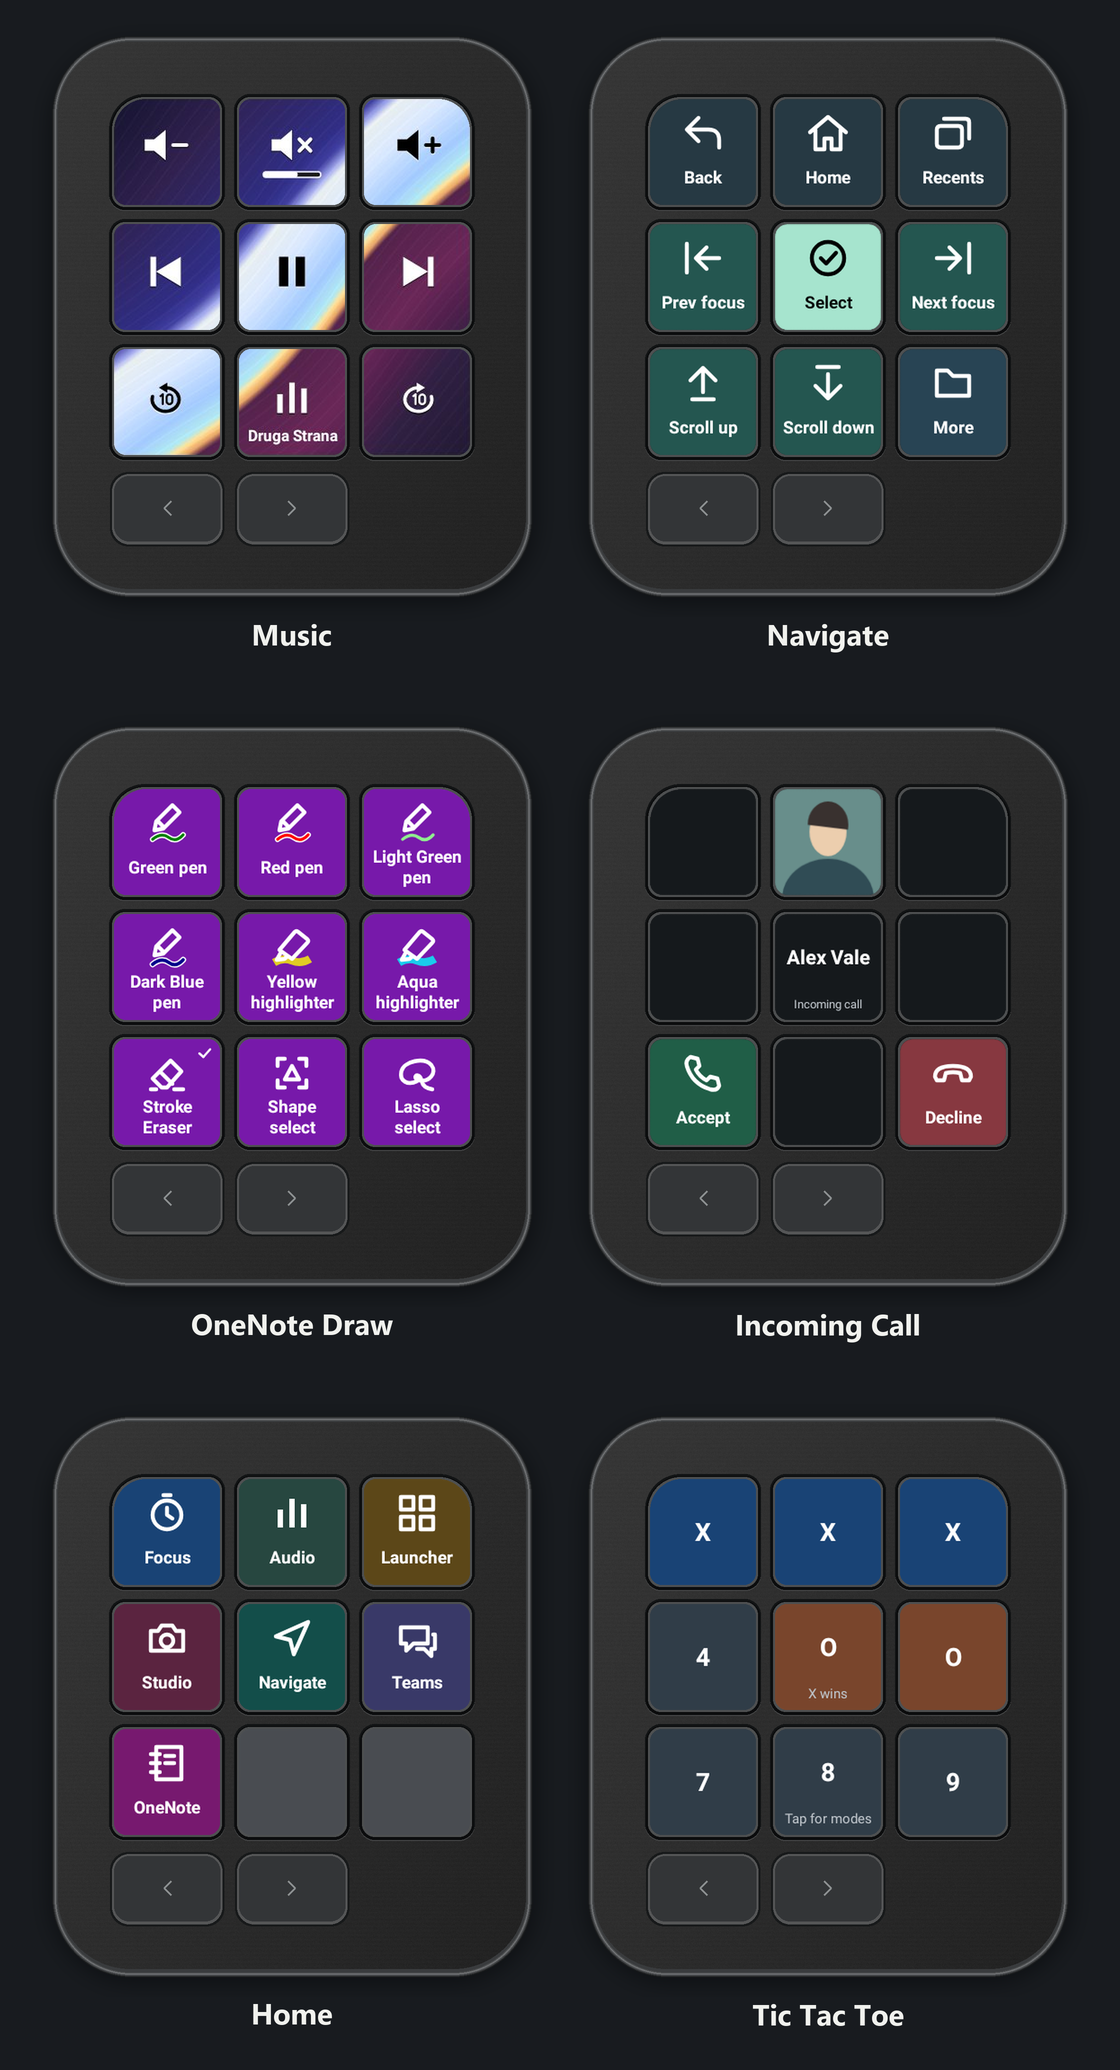
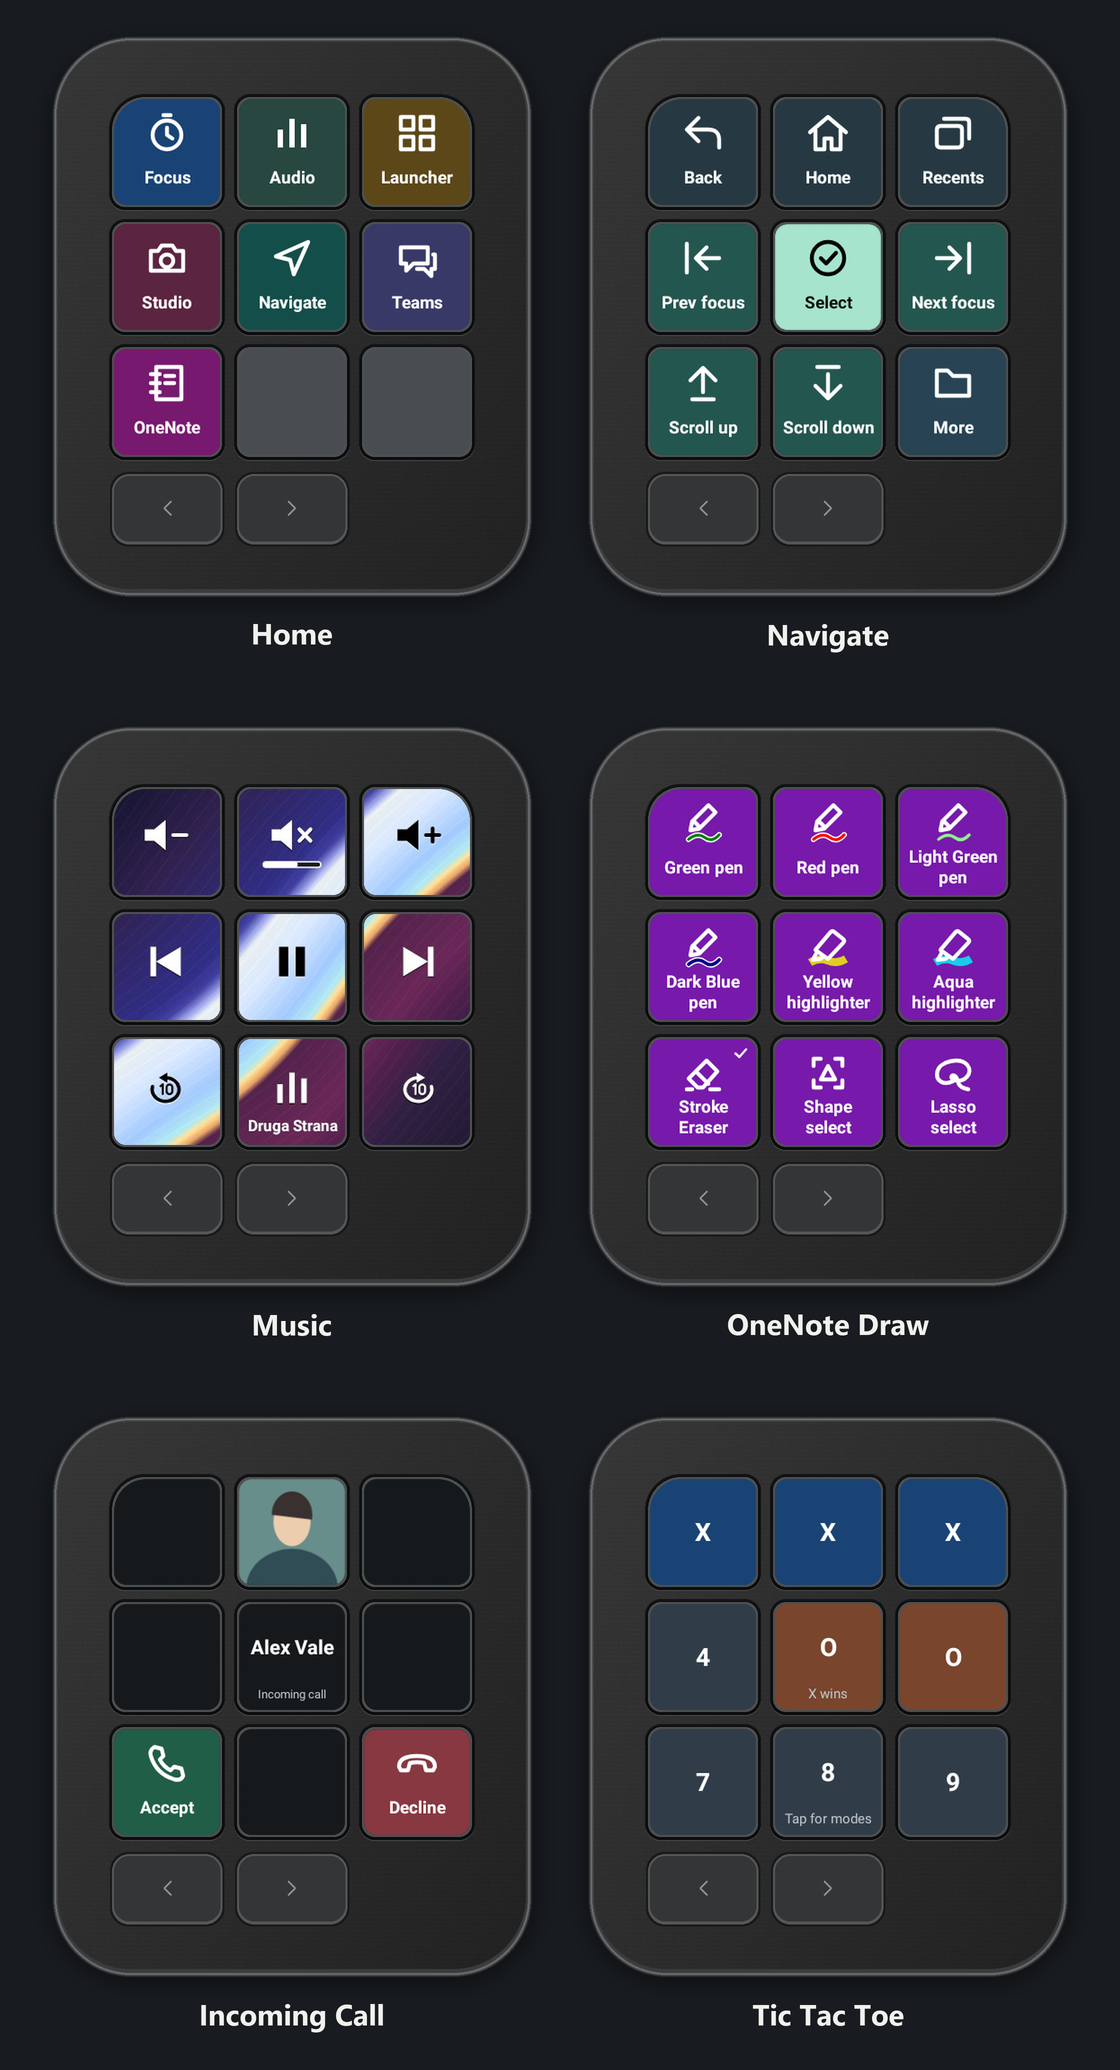
Lead the keypad gallery with Home and Navigate

diff --git a/README.md b/README.md
@@ -14,9 +14,9 @@ Switch to **Navigate**: that same key becomes **Select**. With
 [Android navigation access](docs/android-decks.md) enabled, you can move focus
 between controls in supported apps without swiping the phone.
 
-![Six keypad layouts. Top: Music and Navigate, with Back, Home and Recents above Previous, Select and Next. Middle: OneNote Draw and an incoming call, with the caller’s picture above their name and Accept and Decline in the bottom corners. Bottom: the Home profile picker and Tic Tac Toe.](docs/images/audio-and-navigation.png)
+![Six keypad layouts. Top: the Home profile picker and Navigate. Middle: Music playback and OneNote Draw tools. Bottom: an incoming call with the caller’s picture above their name and Accept and Decline in the bottom corners, beside a game of Tic Tac Toe.](docs/images/audio-and-navigation.png)
 
-*On Navigate, the bottom row shows Scroll up, Scroll down and More. Incoming Call shows a fictional caller and both actions from a supported dialer.*
+*Home lists the available profiles. Navigate groups scrolling and More on its bottom row. Incoming Call shows a fictional caller and both actions from a supported dialer.*
 
 The **wired Logitech MX Creative Keypad** (`046D:C354`) connects directly to
 your Android phone over USB-C. MX Pocket's Kotlin driver uses Android's USB
